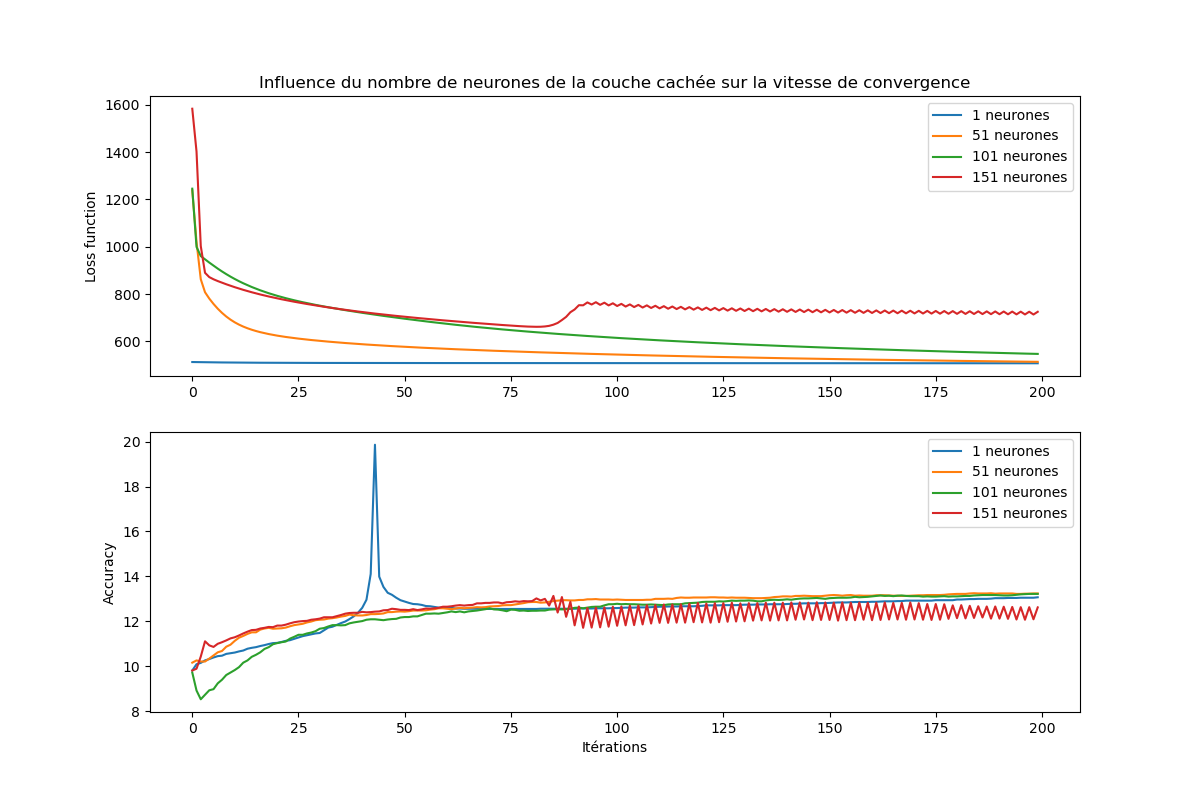
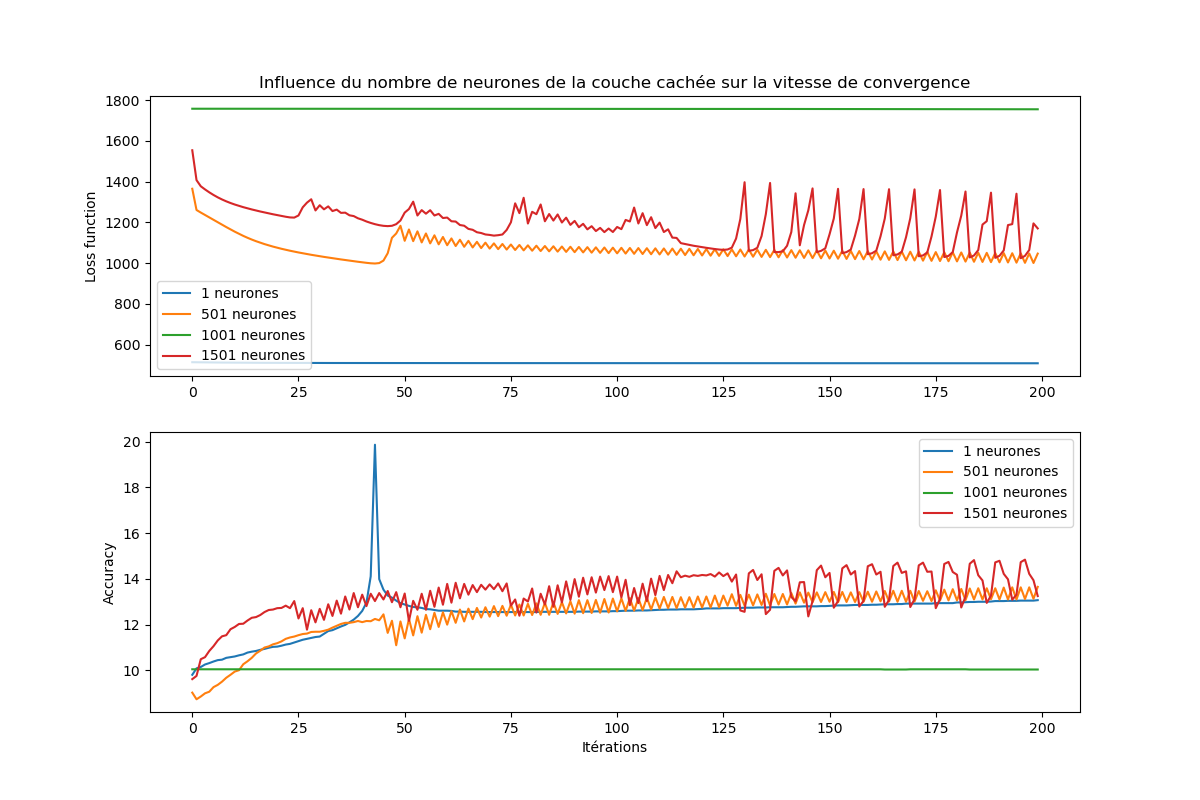
MAJ tests neurones

diff --git a/TD_1/neurones_experimentations.py b/TD_1/neurones_experimentations.py
@@ -3,38 +3,38 @@ from main_neurones import *
 path='D:/Robin Niermaréchal/Documents/ECL/3A/S9/MOD/IA/MOD_IA/TD_1/cifar-10-batches-py/'
 def change_nb_neurons(path):
     X,Y=lecture_cifar(path)
-    X=X[:10000,:]
+    X=X[:10000,:] # restriction de nb d'images, batch original trop grand
     Y=Y[:10000,:]
-    losses=[]
-    accuracies=[]
-    list_nb_neurons=range(1,2001,500)
-    for nb_neurons in list_nb_neurons:
-        loss_list,accuracy_list=train_nn_2layers(X,Y,nb_neurons,1e-4,200)
-        losses.append(loss_list)
-        accuracies.append(accuracy_list)
-    plt.figure(figsize=(12,8))
-    plt.subplot(211)
-    plt.title("Influence du nombre de neurones de la couche cachée sur la vitesse de convergence")
-    for i,loss in enumerate(losses):
-        plt.plot(loss,label=str(list_nb_neurons[i])+' neurones')
-    plt.ylabel("Loss function")
-    plt.legend()
-    plt.subplot(212)
-    for i,accuracy in enumerate(accuracies):
-        plt.plot(accuracy,label=str(list_nb_neurons[i])+' neurones')
-    plt.ylabel("Accuracy")
-    plt.xlabel("Itérations")
-    plt.legend()
-    plt.savefig(fname='results_change_nb_neurons_1.png',format='png')
-    print("Influence du nombre de neurones de la couche cachée sur la vitesse de convergence : DONE")
+    # losses=[]
+    # accuracies=[]
+    # list_nb_neurons=range(1,2001,500)
+    # for nb_neurons in list_nb_neurons:
+    #     loss_list,accuracy_list=train_nn_2layers(X,Y,nb_neurons,1e-4,200)
+    #     losses.append(loss_list) #fonction de perte
+    #     accuracies.append(accuracy_list) #taux de classification
+    # plt.figure(figsize=(12,8))
+    # plt.subplot(211)
+    # plt.title("Influence du nombre de neurones de la couche cachée sur la vitesse de convergence")
+    # for i,loss in enumerate(losses):
+    #     plt.plot(loss,label=str(list_nb_neurons[i])+' neurones')
+    # plt.ylabel("Loss function")
+    # plt.legend()
+    # plt.subplot(212)
+    # for i,accuracy in enumerate(accuracies):
+    #     plt.plot(accuracy,label=str(list_nb_neurons[i])+' neurones')
+    # plt.ylabel("Accuracy")
+    # plt.xlabel("Itérations")
+    # plt.legend()
+    # plt.savefig(fname='results_change_nb_neurons_1.png',format='png')
+    # print("Influence du nombre de neurones de la couche cachée sur la vitesse de convergence : DONE")
 
-    #plt.show()
+    # #plt.show()
 
     losses_end=[] # loss à la fin de l'optimisation des poids
     accuracies_end=[] # accuracy à la fin de l'optimisation des poids
     list_Dh=range(1,2000,50)
     for nb_neurons in list_Dh:
-        loss_list,accuracy_list=train_nn_2layers(X,Y,nb_neurons,1e-4,200)
+        loss_list,accuracy_list=train_nn_2layers(X,Y,nb_neurons,1e-4,200) # nb d'iterations fixé à 200 pour accélérer le calcul
         losses_end.append(loss_list[-1])
         accuracies_end.append(accuracy_list[-1])
     plt.figure(figsize=(12,8))
@@ -52,11 +52,11 @@ def change_nb_neurons(path):
 
 def change_learning_rate(path):
     X,Y=lecture_cifar(path)
-    X=X[:10000,:]
+    X=X[:10000,:] # restriction de nb d'images, batch original trop grand
     Y=Y[:10000,:]
     losses=[]
     accuracies=[]
-    lr_list=[1e-5,1e-4,1e-3,1e-2,1e-1]
+    lr_list=[1e-5,1e-4,1e-3,1e-2,1e-1] # les learning rate à étudier
     for lr in lr_list:
         loss_list,accuracy_list=train_nn_2layers(X,Y,1000,lr,200)
         losses.append(loss_list)
@@ -132,14 +132,14 @@ def mini_batches(path):
 
 def change_nb_layers(path):
     X,Y=lecture_cifar(path)
-    X=X[:1000,:]
-    Y=Y[:1000,:]
-    D_h=750
-    D_h2=1000
-    lr=1e-4
-    n_iter=1000
-    loss_list_2,accuracy_list_2=train_nn_2layers(X,Y, D_h, lr, n_iter)
-    loss_list_3,accuracy_list_3=train_nn_3layers(X,Y, D_h,D_h2, lr, n_iter)
+    X=X[:10000,:] # restriction de nb d'images, batch original trop grand
+    Y=Y[:10000,:]
+    D_h=750 # couche 1
+    D_h2=1000 # couche 2
+    lr=1e-4 # learing rate fixé
+    n_iter=1000 # nb d'itérations pour l'entrainement
+    loss_list_2,accuracy_list_2=train_nn_2layers(X,Y, D_h, lr, n_iter) #entrainement pour 2 couches
+    loss_list_3,accuracy_list_3=train_nn_3layers(X,Y, D_h,D_h2, lr, n_iter) # entrainement pour 3 couches
     plt.figure(figsize=(12,8))
     plt.subplot(211)
     plt.title("Ajout d'une couche : effet sur la vitesse de convergence")
@@ -159,17 +159,18 @@ def change_nb_layers(path):
 
 def descripteurs_3layers(path):
     X,Y=lecture_cifar(path)
-    X=X[:1000,:]
+    X=X[:1000,:] # restriction de nb d'images, batch original trop grand
     Y=Y[:1000,:]
+    ## Paramètres identiques à l'étude réalisée dans change_nb_layers
     D_h=750
     D_h2=1000
     lr=1e-4
     n_iter=1000
-    loss_list,accuracy_list=train_nn_3layers(X,Y, D_h,D_h2, lr, n_iter)
+    loss_list,accuracy_list=train_nn_3layers(X,Y, D_h,D_h2, lr, n_iter) #3 couches sans descripteurs
     X_lbp=add_LPB(X)
-    loss_list_lbp,accuracy_list_lbp=train_nn_3layers(X_lbp,Y, D_h,D_h2, lr, n_iter)
+    loss_list_lbp,accuracy_list_lbp=train_nn_3layers(X_lbp,Y, D_h,D_h2, lr, n_iter) #3 couches avec LBP
     X_hog=add_LPB(X)
-    loss_list_hog,accuracy_list_hog=train_nn_3layers(X_hog,Y, D_h,D_h2, lr, n_iter)
+    loss_list_hog,accuracy_list_hog=train_nn_3layers(X_hog,Y, D_h,D_h2, lr, n_iter) #3 couches avec HOG
 
     plt.figure(figsize=(12,8))
     plt.subplot(211)
@@ -193,13 +194,17 @@ try:
     change_nb_neurons(path)
 except:
     print("Erreur dans le nb de neurones")
-try:
-    change_learning_rate(path)
-except:
-    print("Erreur dans learning rate")
+# try:
+#     change_learning_rate(path)
+# except:
+#     print("Erreur dans learning rate")
 # try:
 #     mini_batches(path)
-# try:
-#     change_nb_layers(path)
-# except:
-#     print("Erreur dans change nb layers")
+try:
+    change_nb_layers(path)
+except:
+    print("Erreur dans change nb layers")
+try:
+    descripteurs_3layers(path)
+except:
+    print("Erreur dans descripteurs")

diff --git a/TD_1/main_neurones.py b/TD_1/main_neurones.py
@@ -5,35 +5,11 @@ import matplotlib.pyplot as plt
 
 np.random.seed(1) # pour que l'exécution soit déterministe
 
-# path='D:/Robin Niermaréchal/Documents/ECL/3A/S9/MOD/IA/TD_1/cifar-10-batches-py/'
-
-# X,Y=lecture_cifar(path)
-
-##########################
-# Génération des données #
-##########################
-
-# N est le nombre de données d'entrée
-# D_in est la dimension des données d'entrée
-# D_h le nombre de neurones de la couche cachée
-# D_out est la dimension de sortie (nombre de neurones de la couche de sortie)
-# N, D_in, D_h, D_out = 30, 2, 10, 3
-
-# # Création d'une matrice d'entrée X et de sortie Y avec des valeurs aléatoires
-
-# X = np.random.random((N, D_in))
-# Y = np.random.random((N, D_out))
-
-# # Initialisation aléatoire des poids du réseau
-# W1 = 2 * np.random.random((D_in, D_h)) - 1
-# b1 = np.zeros((1,D_h))
-# W2 = 2 * np.random.random((D_h, D_out)) - 1
-# b2 = np.zeros((1,D_out))
 
 
 def forward_2layers(X,W1,b1,W2,b2,Y):
     ###################################################
-    # Passe avant : calcul de la sortie prédite Y_pred #
+    # Passe avant : calcul de la sortie prédite Y_pred pour réseau à 2 couches#
     ###################################################
     I1 = X.dot(W1) + b1 # Potentiel d'entrée de la couche cachée
     O1 = 1/(1+np.exp(-I1)) # Sortie de la couche cachée (fonction d'activation de type sigmoïde)
@@ -41,7 +17,7 @@ def forward_2layers(X,W1,b1,W2,b2,Y):
     O2 = 1/(1+np.exp(-I2)) # Sortie de la couche de sortie (fonction d'activation de type sigmoïde)
     Y_pred = O2 # Les valeurs prédites sont les sorties de la couche de sortie
     #######################################################
-    # Calcul et affichage de la fonction perte de type MSE #
+    # Calcul de la fonction perte de type MSE #
     #######################################################
     loss = np.square(Y_pred - Y).sum() / 2
     return O1,Y_pred,loss
